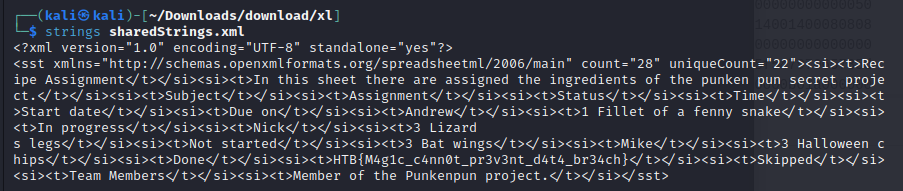
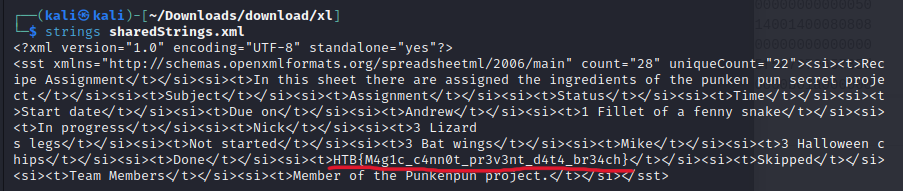
Trick or Breach writeup

Changed region(s): [[0.3411, 0.8639, 0.7132, 0.9162]]

diff --git a/forensics/trick_or_breach/README.md b/forensics/trick_or_breach/README.md
@@ -1,11 +1,33 @@
+# Trick or Breach
 
+![forensics](https://img.shields.io/badge/category-forensics-brightgreen) <br>
+![difficulty](https://img.shields.io/badge/difficulty-easy-green) <br>
+![solvetime](https://img.shields.io/badge/solved-durring%20event-green)
 
-Searching around for DNS data extraction tools. We can use included tshark tool in kali linux. We get all DNS responses exported. We use regex to get only the hex data, that we can throw in cyberchef. Save the output as a .zip file. Extract it and we find a lot of .xml files. We start searching until we find a flag in one of the files.
+## Description
 
+> Our company has been working on a secret project for almost a year. None knows about the subject, although rumor is that it is about an old Halloween legend where an old witch in the woods invented a potion to bring pumpkins to life, but in a more up-to-date approach. Unfortunately, we learned that malicious actors accessed our network in a massive cyber attack. Our security team found that the hack had occurred when a group of children came into the office's security external room for trick or treat. One of the children was found to be a paid actor and managed to insert a USB into one of the security personnel's computers, which allowed the hackers to gain access to the company's systems. We only have a network capture during the time of the incident. Can you find out if they stole the secret project?
 
+Provided file is:
+- [capture.pcap](capture.pcap)
 
-Flag: HTB{M4g1c_c4nn0t_pr3v3nt_d4t4_br34ch}
+## Solving process
 
-https://www.netresec.com/?page=Blog&month=2012-06&post=Extracting-DNS-queries
+First things first I opened the file in [Wireshark](https://www.wireshark.org/). We only see DNS traffic inside. But I noticed there is some random HEX data sent with every request. So I started searching for DNS extraction tools. I found a great [article](https://www.netresec.com/?page=Blog&month=2012-06&post=Extracting-DNS-queries) on how to do this with the [tshark tool](https://www.wireshark.org/docs/man-pages/tshark.html) that comes pre installed on [Kali linux](https://www.kali.org/). We use the command: <br>
+    `tshark -r capture.pcap -T fields -e ip.src -e dns.qry.name -Y "dns.flags.response eq 1" > hex.txt`
 
-https://regex101.com/
+![tshark](images/dns_requests.png)
+
+We now have all DNS requests extracted with some unnecessary information. So we use good old [regex](https://regex101.com/) to extract only the HEX encoded strings.
+
+![regex](images/regex.png)
+
+Get a HEX dump. We throw it into [Cyberchef](https://cyberchef.org). Save the output as a *.zip* file.
+
+![cyberchef](images/get_file.png)
+
+Extract the downloaded *.zip* file and get a lot of *.xml* files, that we just search through untill we find our flag.
+
+![flag](images/find_flag.png)
+
+**Flag:** *HTB{M4g1c_c4nn0t_pr3v3nt_d4t4_br34ch}*

diff --git a/forensics/wrong_spooky_season/README.md b/forensics/wrong_spooky_season/README.md
@@ -13,7 +13,7 @@ Provided file is:
 
 ## Solving process
 
-We open the given .pcap file in [Wireshark](https://www.wireshark.org/). After looking through we can find some images that were accessed and we can find a hostile command execution that was achieved with RCE. Unable to find the flag in this command execution, I just ran *strings* command on the file. We can see a Base64 encoded string at the end, but it is in reverse order.
+We open the given .pcap file in [Wireshark](https://www.wireshark.org/). After looking through we can find some images that were accessed and we can find a hostile command execution that was achieved with RCE. Unable to find the flag in this command execution, I just ran `strings` command on the file. We can see a Base64 encoded string at the end, but it is in reverse order.
 
 ![strings](images/running_strings.png)
 
